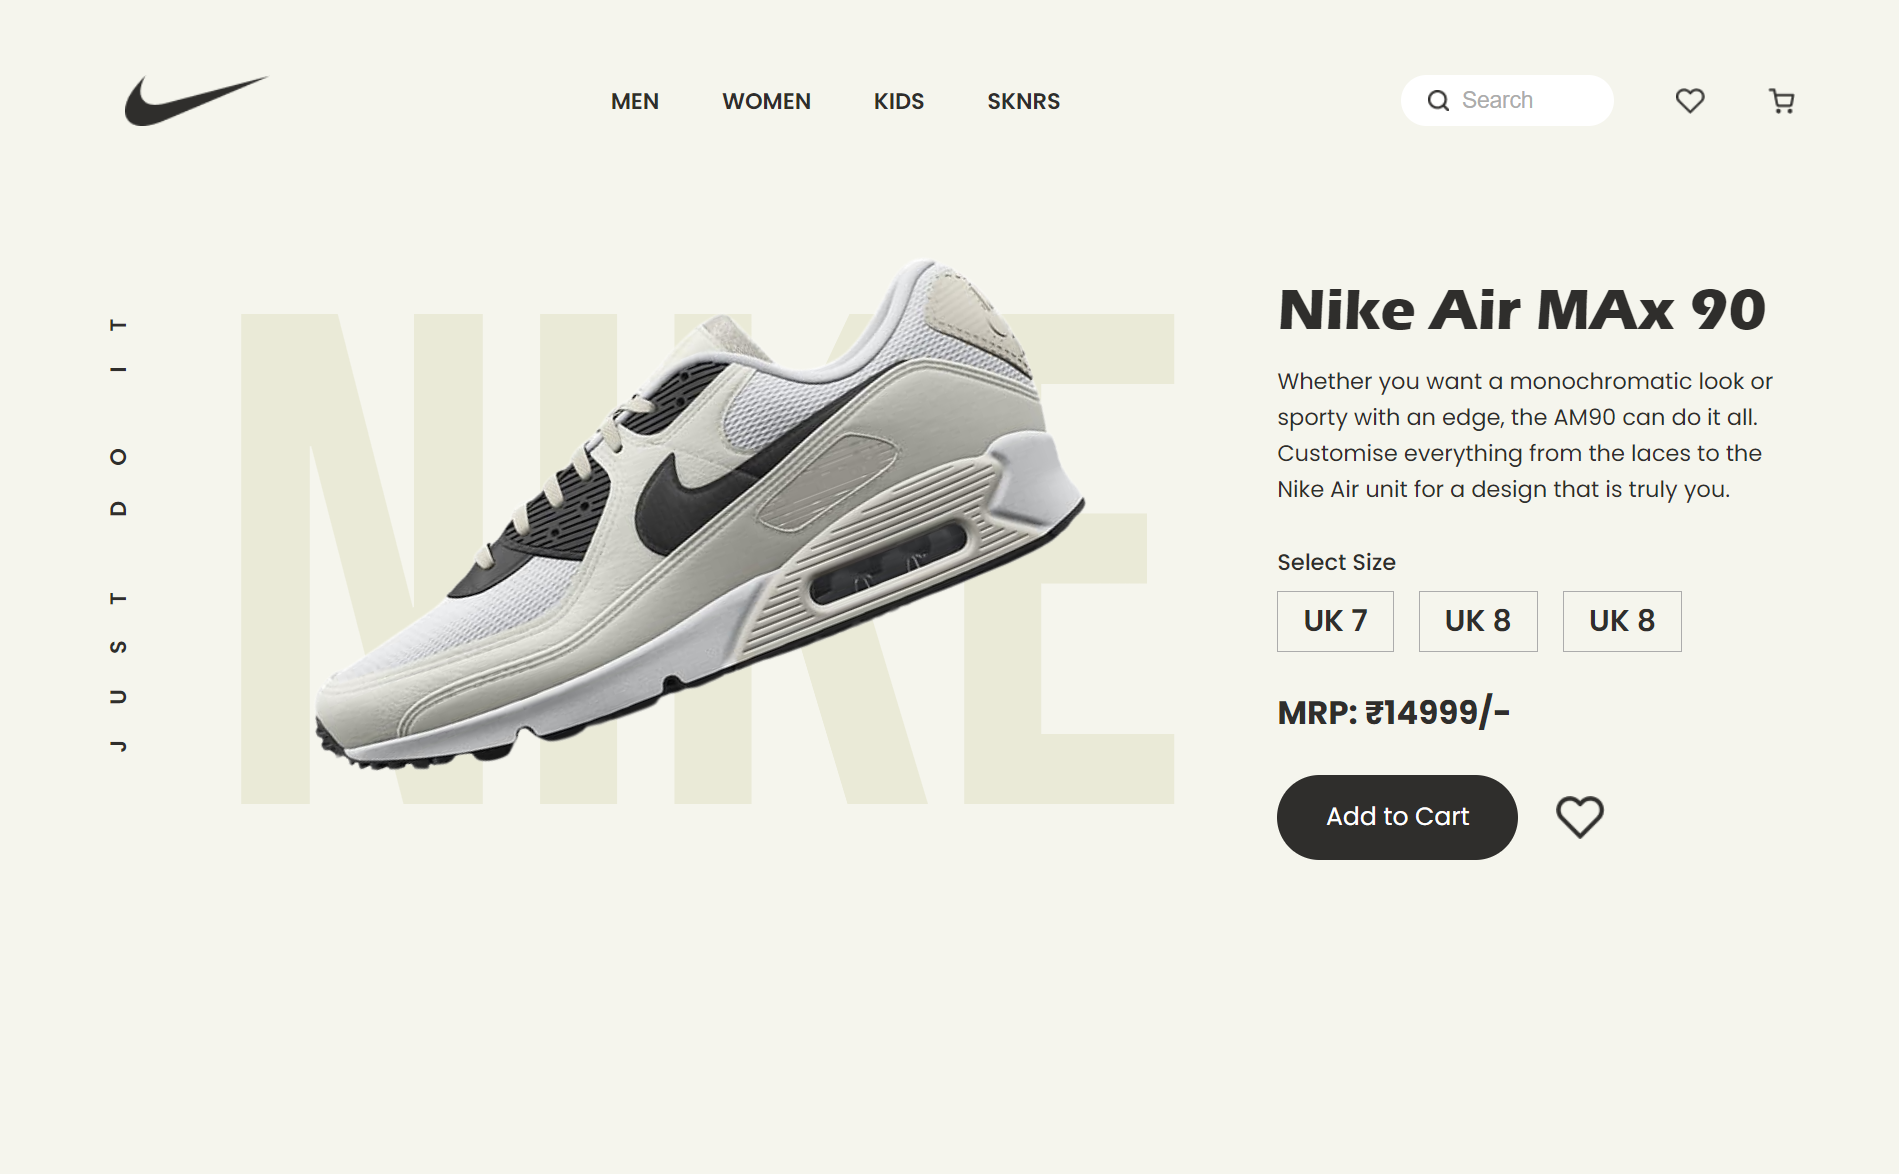
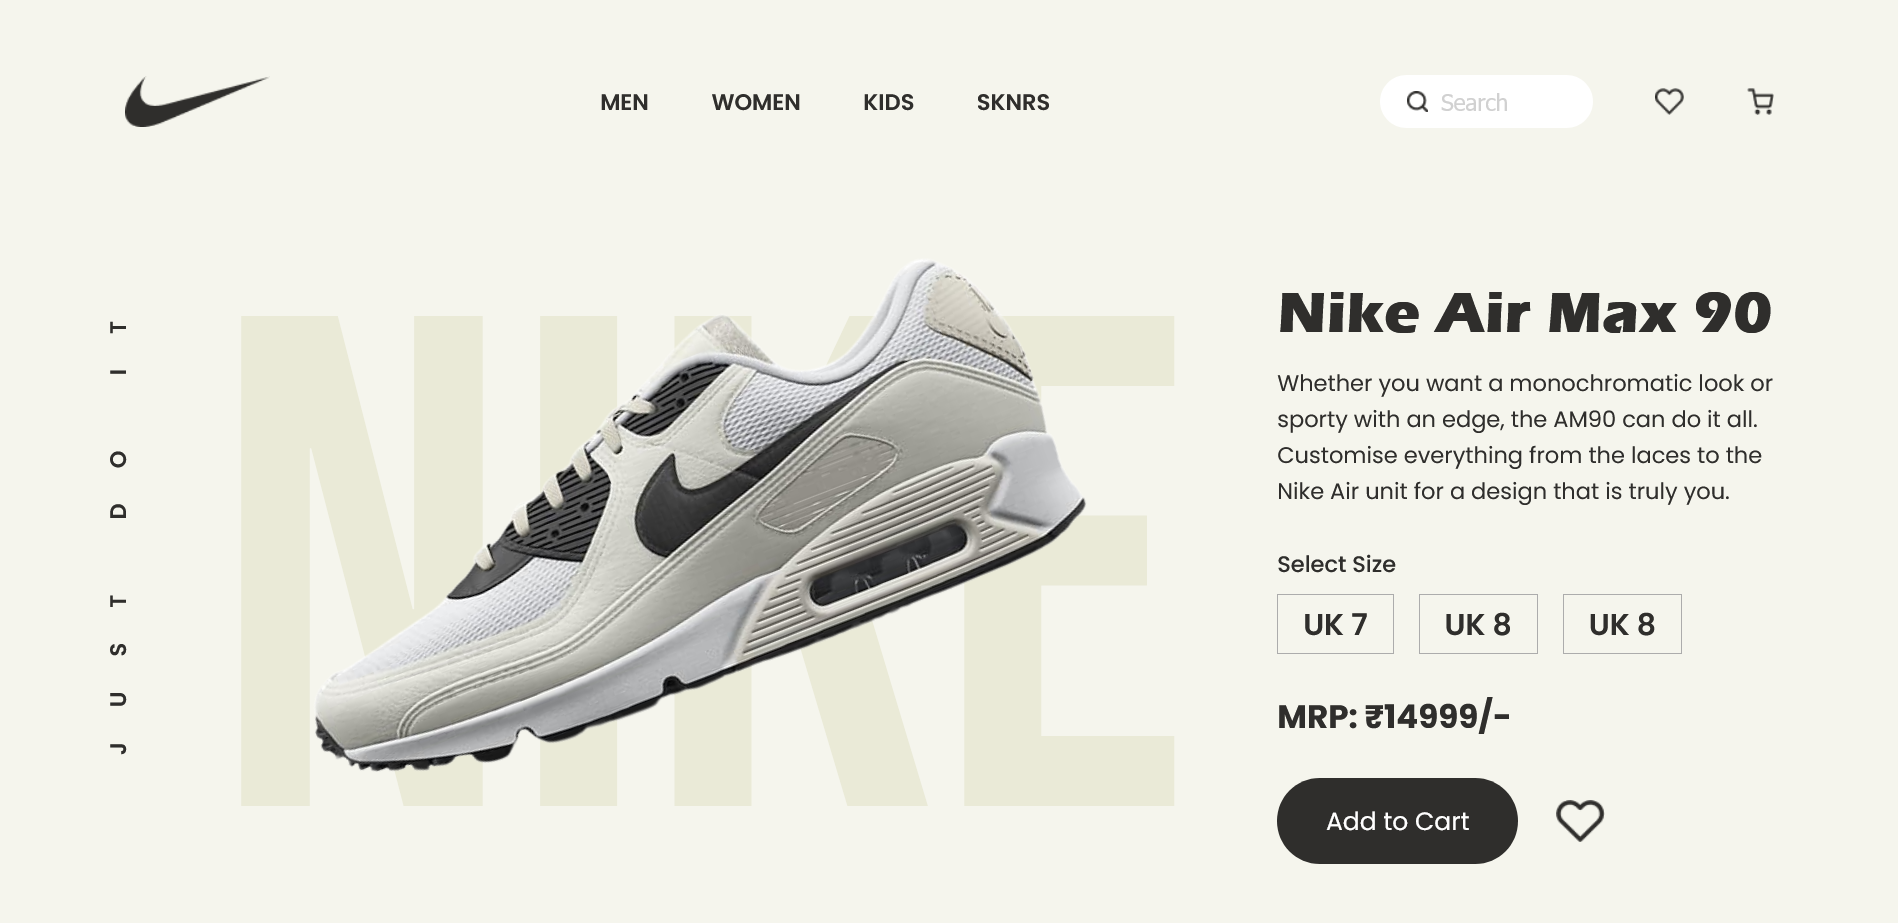
Fixed typo on product name

diff --git a/src/index.html b/src/index.html
@@ -63,7 +63,7 @@
 				</div>
 			</div>
 			<div class="product__info">
-				<h1 class="product__name">Nike Air MAx 90</h1>
+				<h1 class="product__name">Nike Air Max 90</h1>
 				<p class="product__description">
 					Whether you want a monochromatic look or sporty with an edge, the AM90
 					can do it all. Customise everything from the laces to the Nike Air
